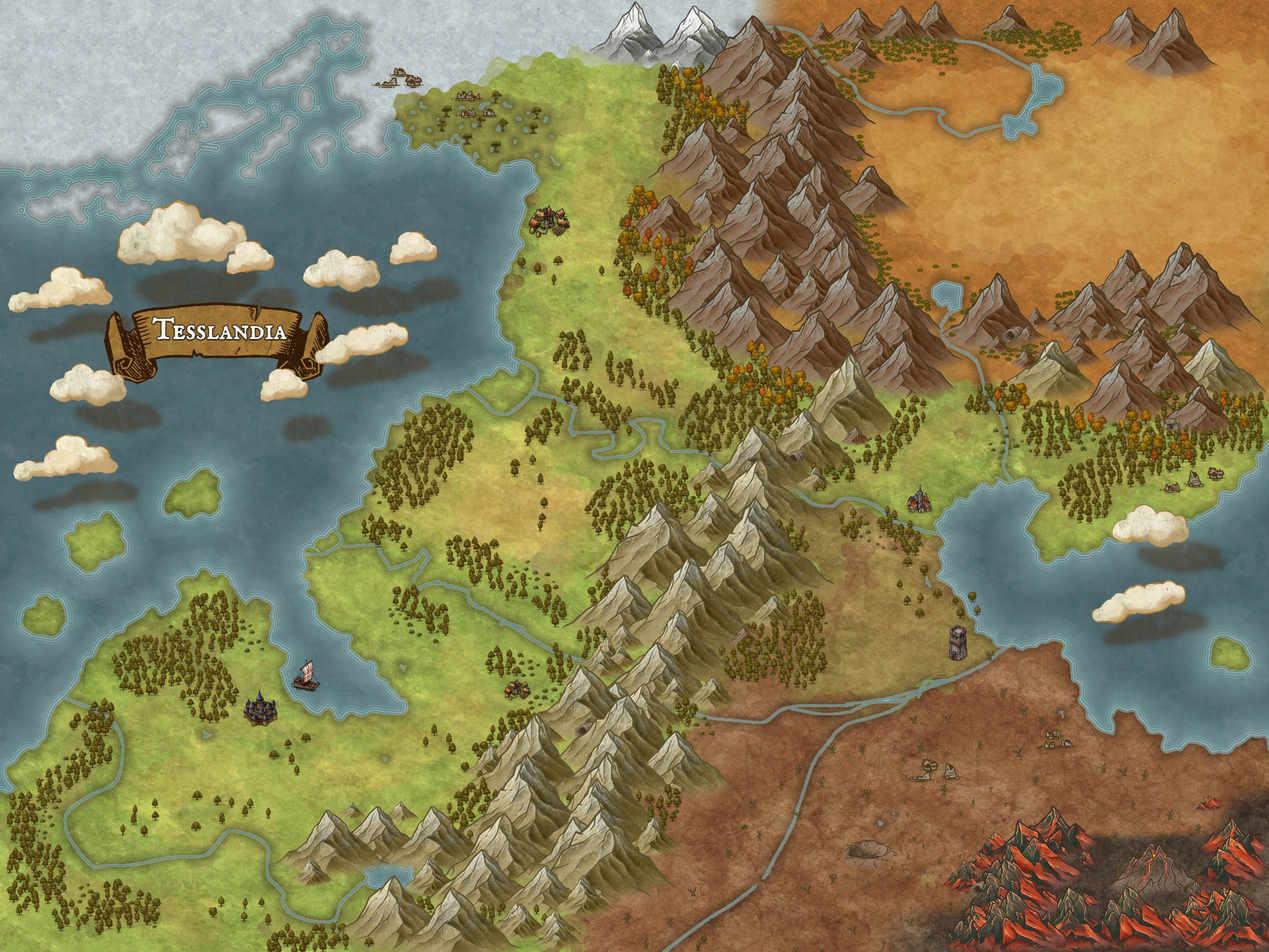
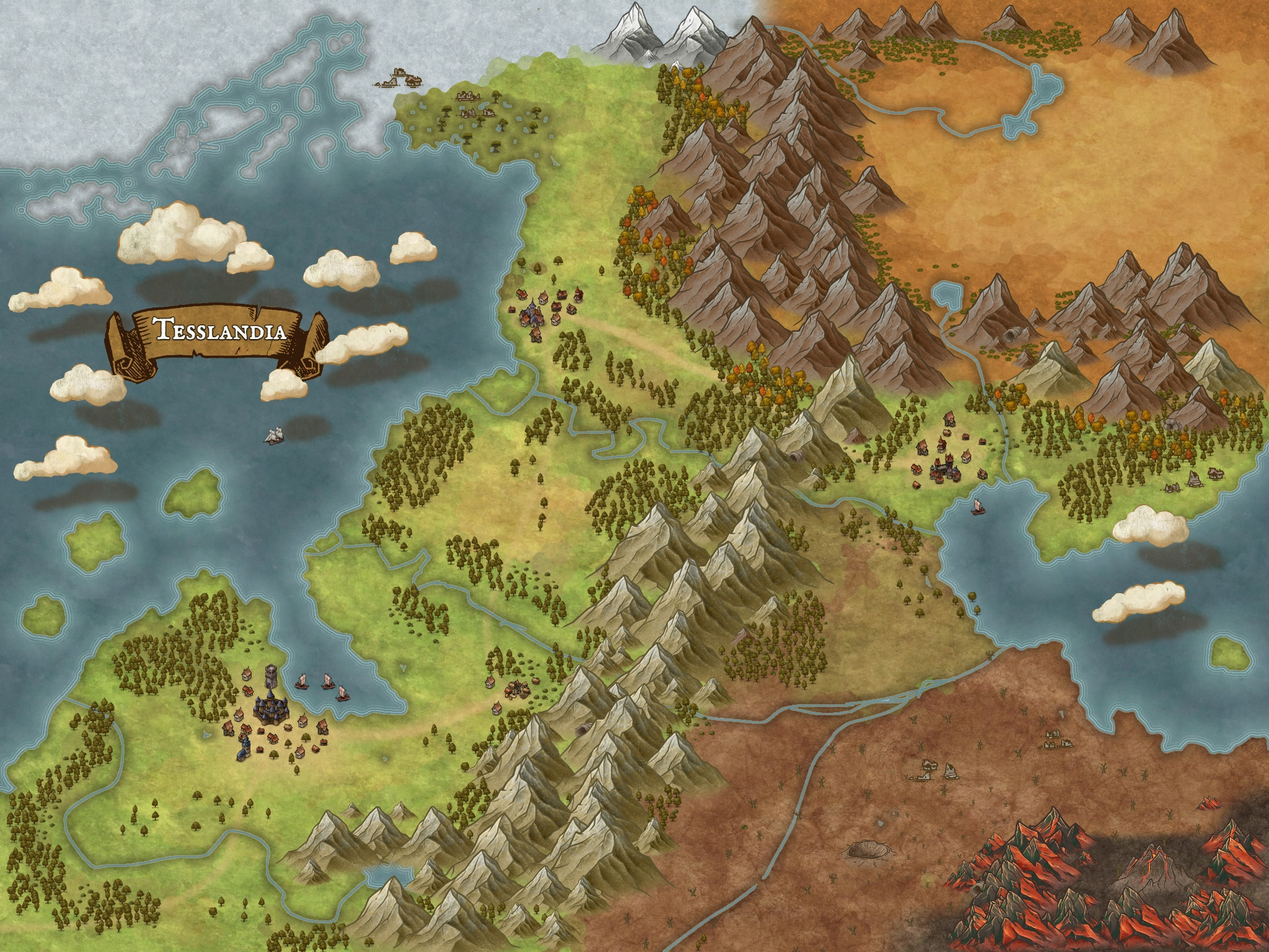
Map adjustments

diff --git a/src/app/components/game/game.component.scss b/src/app/components/game/game.component.scss
@@ -29,6 +29,21 @@
   width: calc($game-board-width / 2);
   height: $game-board-height;
 }
+.board-4 {
+  background-image: url("../../../assets/Tesslandia\ right\ side.jpg"); //
+  width: calc($game-board-width / 2);
+  height: $game-board-height;
+}
+.board-5 {
+  background-image: url("../../../assets/Tesslandia\ right\ side.jpg"); //
+  width: calc($game-board-width / 2);
+  height: $game-board-height;
+}
+.board-6 {
+  background-image: url("../../../assets/Tesslandia\ right\ side.jpg"); //
+  width: calc($game-board-width / 2);
+  height: $game-board-height;
+}
 
 .table {
   width: 100%;

diff --git a/src/app/components/game/game.component.html b/src/app/components/game/game.component.html
@@ -3,8 +3,12 @@
     <span class="board-wrapper">
       <div class="board-1"></div>
       <div class="board-2"></div>
-
       <div class="board-3"></div>
+    </span>
+    <span class="board-wrapper">
+      <div class="board-4"></div>
+      <div class="board-5"></div>
+      <div class="board-6"></div>
     </span>
 
     <span *ngFor="let player of players">
